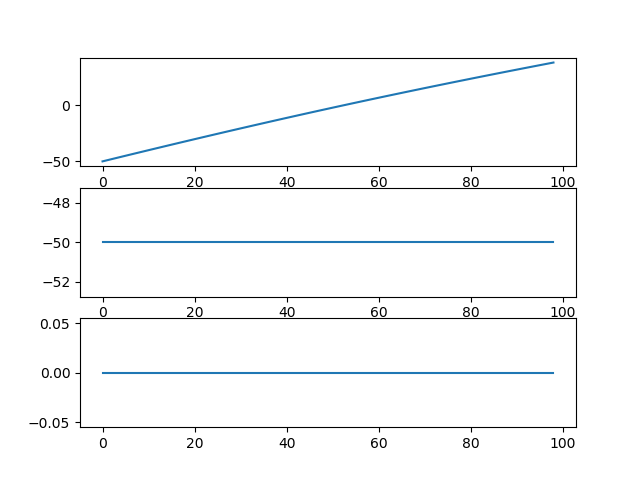
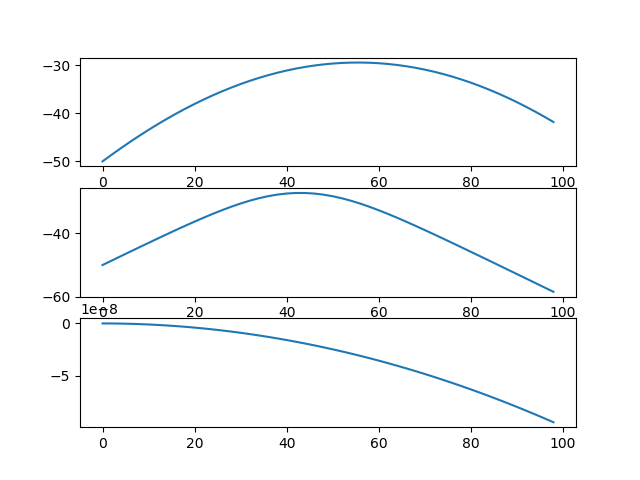
plot snell logistc

diff --git a/plot_snell_3d.py b/plot_snell_3d.py
@@ -7,17 +7,21 @@ from mpl_toolkits.axes_grid1 import make_axes_locatable
 from OCC.Display.SimpleGui import init_display
 from OCC.Core.gp import gp_Ax1, gp_Ax2, gp_Ax3
 from OCC.Core.gp import gp_Pnt, gp_Vec, gp_Dir
+from OCC.Core.gp import gp_Pln
+from OCC.Extend.ShapeFactory import make_face
+from OCCUtils.Construct import make_plane
 
 from OCCDisplay import OCCDisplay
 
 
 class OpticsTraject_3D (OCCDisplay):
 
-    def __init__(self, xyz=[-50, -50, 0], vec=[1, 0, 0]):
+    def __init__(self, xyz=[-50, -50, 0], vec=[1, 1, 0]):
         super(OpticsTraject_3D, self).__init__()
 
-        self.cff = [1.1, 1.1, 1.0]
-        self.rng = [30.0, 1.5, 1.0]
+        self.cff = [1.5, 1.5, 2.0]
+        self.rng = [30.0, 5.0, 1.0]
+        self.sig = [10.0, 20.0, 30.0]
         self.set_axs(xyz, vec)
 
     def get_dat(self):
@@ -53,11 +57,13 @@ class OpticsTraject_3D (OCCDisplay):
         # Refractive index function
         return self.refract_3d(xyz)
 
-    def refract_2d(self, x=0, y=0):
-        ref_x = self.cff_x - (self.cff_x - 1) / \
-            (1 + np.exp(-(x - self.cff_x**2) / self.rng_x))
-        ref_y = self.cff_y - (self.cff_y - 1) / \
-            (1 + np.exp(-(y - self.cff_y**2) / self.rng_y))
+    def refract_1d(self, x=0, cff=1.0, rng=0.0, sig=0):
+        ref = cff - (cff - 1) / (1 + np.exp(-((x + sig) - cff**2) / rng))
+        return ref
+
+    def refract_2d(self, xy=[0, 0]):
+        ref_x = self.refract_1d(xy[0], self.cff[0], self.rng[0])
+        ref_y = self.refract_1d(xy[1], self.cff[1], self.rng[1])
         return ref_x + ref_y
 
     def refract_3d(self, pos=[0, 0, 0]):
@@ -65,11 +71,12 @@ class OpticsTraject_3D (OCCDisplay):
         for i, p in enumerate(pos):
             cff = self.cff[i]
             rng = self.rng[i]
-            ref += cff - (cff - 1) / (1 + np.exp(-(p - cff**2) / rng))
+            sig = self.sig[i]
+            ref += self.refract_1d(p, cff, rng, sig)
         return ref
 
     def plot_2d(self, dirname="./", pngname="plot_snell_3d"):
-
+        plt.figure()
         plt.subplot(311)
         plt.plot(self.t_range, self.dat[:, 0])
 
@@ -82,9 +89,38 @@ class OpticsTraject_3D (OCCDisplay):
         pngfile = dirname + pngname + "_xyz.png"
         plt.savefig(pngfile)
 
+        plt.figure()
+        plt.subplot(311)
+        px = self.dat[:, 0]
+        nx = self.refract_1d(px, self.cff[0], self.rng[0], self.sig[0])
+        plt.plot(px, nx)
+
+        plt.subplot(312)
+        px = self.dat[:, 1]
+        nx = self.refract_1d(px, self.cff[1], self.rng[1], self.sig[1])
+        plt.plot(px, nx)
+
+        plt.subplot(313)
+        px = self.dat[:, 2]
+        nx = self.refract_1d(px, self.cff[2], self.rng[2], self.sig[2])
+        plt.plot(px, nx)
+
+        pngfile = dirname + pngname + "_ref.png"
+        plt.savefig(pngfile)
+
     def plot_3d(self):
         print("ok")
         self.display.DisplayShape(gp_Pnt())
+
+        pln_x = make_plane(gp_Pnt(self.sig[0], 0, 0), gp_Vec(1, 0, 0))
+        self.display.DisplayShape(pln_x, color="RED", transparency=0.5)
+
+        pln_y = make_plane(gp_Pnt(0, self.sig[1], 0), gp_Vec(0, 1, 0))
+        self.display.DisplayShape(pln_y, color="GREEN", transparency=0.5)
+
+        pln_z = make_plane(gp_Pnt(0, 0, self.sig[2]), gp_Vec(0, 0, 1))
+        self.display.DisplayShape(pln_z, color="BLUE", transparency=0.5)
+
         for i, data in enumerate(self.dat):
             xyz = data[0], data[1], data[2]
             self.display.DisplayShape(gp_Pnt(*xyz))
